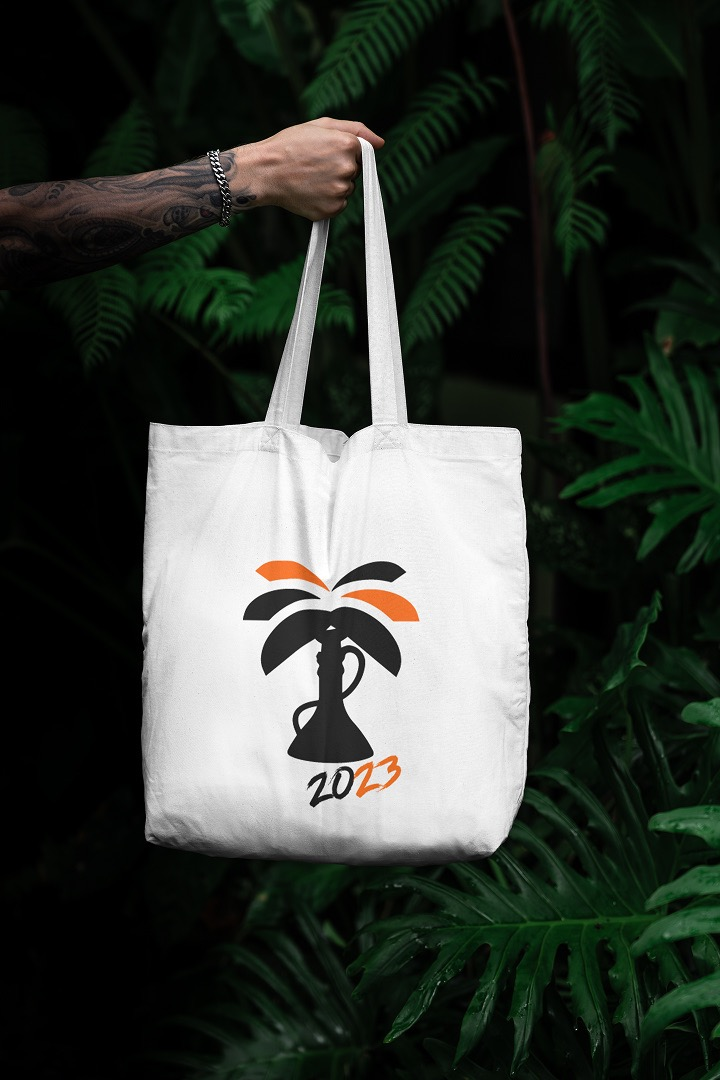
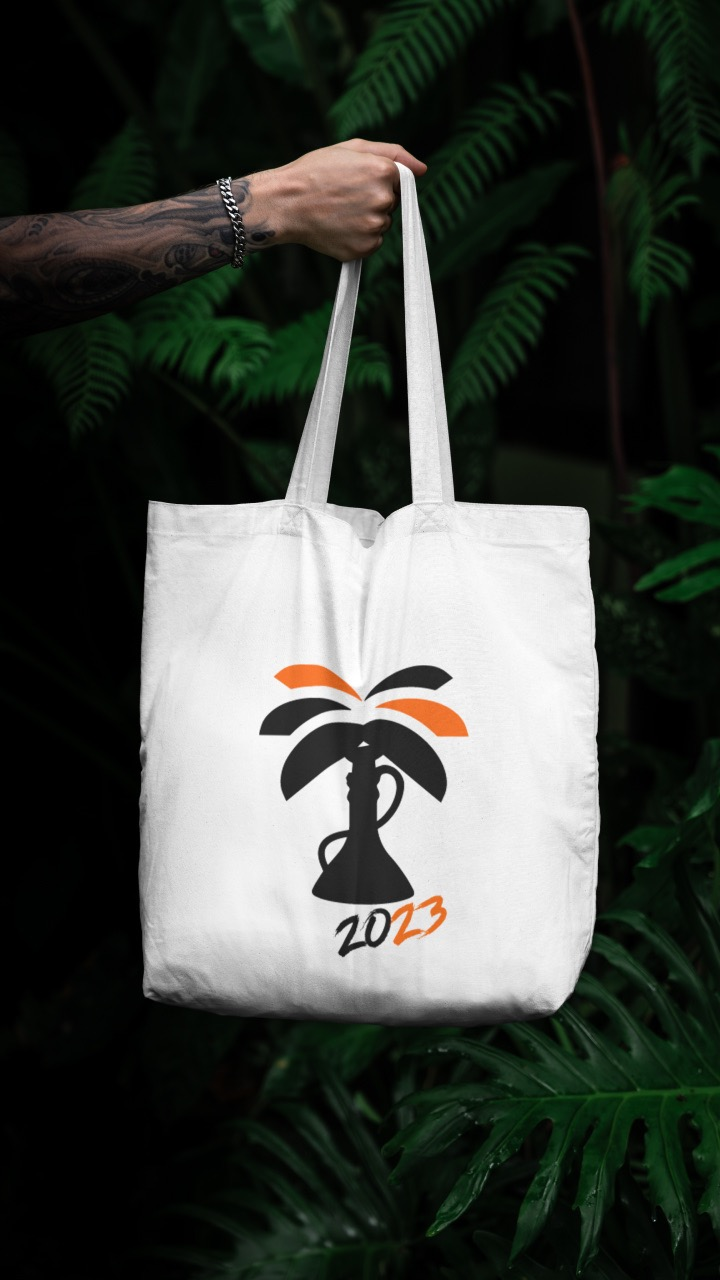
add project's photos

diff --git a/projects/hookahpicnic.html b/projects/hookahpicnic.html
@@ -117,40 +117,40 @@
       <h2>Как это выглядит</h2>
 
       <div class="gallery-grid">
-        <div class="gallery-item gallery-featured">
-          <img src="../assets/images/projects/hookahpicnic/hookahpicnic1.jpg" alt="Логотип мероприятия" loading="lazy"
+        <div class="gallery-item gallery-wide">
+          <img src="../assets/images/projects/hookahpicnic/hookahpicnic1.jpeg" alt="Логотип мероприятия" loading="lazy"
             decoding="async">
         </div>
-        <div class="gallery-item">
-          <img src="../assets/images/projects/hookahpicnic/hookahpicnic2.jpg" alt="Hookah Picnic — шоппер"
+        <div class="gallery-item gallery-vertical">
+          <img src="../assets/images/projects/hookahpicnic/hookahpicnic2.jpeg" alt="Hookah Picnic — шоппер"
             loading="lazy" decoding="async">
         </div>
-        <div class="gallery-item">
-          <img src="../assets/images/projects/hookahpicnic/hookahpicnic3.jpg" alt="Hookah Picnic — символ"
-            loading="lazy" decoding="async">
-        </div>
-        <div class="gallery-item gallery-wide">
-          <img src="../assets/images/projects/hookahpicnic/hookahpicnic4.jpg" alt="Девушка в футболке Hookah Picnic"
+        <div class="gallery-item gallery-vertical">
+          <img src="../assets/images/projects/hookahpicnic/hookahpicnic3.jpeg" alt="Hookah Picnic — символ"
             loading="lazy" decoding="async">
         </div>
         <div class="gallery-item gallery-wide">
-          <img src="../assets/images/projects/hookahpicnic/hookahpicnic5.jpg" alt="Буклет Hookah Picnic у бассейна"
+          <img src="../assets/images/projects/hookahpicnic/hookahpicnic4.jpeg" alt="Девушка в футболке Hookah Picnic"
             loading="lazy" decoding="async">
         </div>
         <div class="gallery-item gallery-wide">
-          <img src="../assets/images/projects/hookahpicnic/hookahpicnic6.jpg"
+          <img src="../assets/images/projects/hookahpicnic/hookahpicnic5.jpeg" alt="Буклет Hookah Picnic у бассейна"
+            loading="lazy" decoding="async">
+        </div>
+        <div class="gallery-item gallery-wide">
+          <img src="../assets/images/projects/hookahpicnic/hookahpicnic6.jpeg"
             alt="Брендированная арка мероприятия Hookah Picnic" loading="lazy" decoding="async">
         </div>
         <div class="gallery-item gallery-wide">
-          <img src="../assets/images/projects/hookahpicnic/hookahpicnic7.jpg" alt="Hookah Picnic — мокап футболки"
+          <img src="../assets/images/projects/hookahpicnic/hookahpicnic7.jpeg" alt="Hookah Picnic — мокап футболки"
             loading="lazy" decoding="async">
         </div>
         <div class="gallery-item gallery-wide">
-          <img src="../assets/images/projects/hookahpicnic/hookahpicnic8.jpg" alt="Футболка и шоппер Hookah Picnic"
+          <img src="../assets/images/projects/hookahpicnic/hookahpicnic8.jpeg" alt="Футболка и шоппер Hookah Picnic"
             loading="lazy" decoding="async">
         </div>
         <div class="gallery-item gallery-wide">
-          <img src="../assets/images/projects/hookahpicnic/hookahpicnic9.jpg" alt="Человек с шоппером Hookah Picnic"
+          <img src="../assets/images/projects/hookahpicnic/hookahpicnic9.jpeg" alt="Человек с шоппером Hookah Picnic"
             loading="lazy" decoding="async">
         </div>
       </div>

diff --git a/projects/eazyenergy.html b/projects/eazyenergy.html
@@ -114,29 +114,33 @@
       <h2>Как это выглядит</h2>
 
       <div class="gallery-grid">
-        <div class="gallery-item gallery-featured">
-          <img src="../assets/images/carousel/7. eazyenergy1.jpg" alt="Eazy Energy — упаковка" loading="lazy"
-            decoding="async">
-        </div>
-        <div class="gallery-item">
-          <img src="../assets/images/projects/eazyenergy/can.jpg" alt="Eazy Energy — банка" loading="lazy"
-            decoding="async">
-        </div>
-        <div class="gallery-item">
-          <img src="../assets/images/projects/eazyenergy/sketch.jpg" alt="Eazy Energy — эскизы" loading="lazy"
+        <div class="gallery-item gallery-wide">
+          <img src="../assets/images/projects/eazyenergy/eazyenergy1.jpeg" alt="Eazy Energy — упаковка" loading="lazy"
             decoding="async">
         </div>
         <div class="gallery-item gallery-wide">
-          <img src="../assets/images/projects/eazyenergy/shelf.jpg" alt="Eazy Energy — на полке" loading="lazy"
-            decoding="async">
+          <img src="../assets/images/projects/eazyenergy/eazyenergy2.jpeg" alt="Eazy Energy — банка энергетика"
+            loading="lazy" decoding="async">
         </div>
-        <div class="gallery-item">
-          <img src="../assets/images/projects/eazyenergy/flavors.jpg" alt="Eazy Energy — вкусы" loading="lazy"
-            decoding="async">
+        <div class="gallery-item gallery-wide">
+          <img src="../assets/images/projects/eazyenergy/eazyenergy4.jpeg" alt="Eazy Energy — дизайн банки"
+            loading="lazy" decoding="async">
         </div>
-        <div class="gallery-item">
-          <img src="../assets/images/projects/eazyenergy/mockup.jpg" alt="Eazy Energy — мокап" loading="lazy"
-            decoding="async">
+        <div class="gallery-item gallery-wide">
+          <img src="../assets/images/projects/eazyenergy/eazyenergy5.jpeg" alt="Eazy Energy — мерч и брендинг"
+            loading="lazy" decoding="async">
+        </div>
+        <div class="gallery-item gallery-wide">
+          <img src="../assets/images/projects/eazyenergy/eazyenergy6.jpeg" alt="Eazy Energy — event оформление"
+            loading="lazy" decoding="async">
+        </div>
+        <div class="gallery-item gallery-wide">
+          <img src="../assets/images/projects/eazyenergy/eazyenergy7.jpeg" alt="Eazy Energy — гоночная команда"
+            loading="lazy" decoding="async">
+        </div>
+        <div class="gallery-item gallery-wide">
+          <img src="../assets/images/projects/eazyenergy/eazyenergy8.jpeg" alt="Eazy Energy — тур по России"
+            loading="lazy" decoding="async">
         </div>
       </div>
     </section>

diff --git a/projects/wef2025.html b/projects/wef2025.html
@@ -120,11 +120,42 @@
       <h2>Как это выглядит</h2>
 
       <div class="gallery-grid">
-        <div class="gallery-item gallery-featured">
-          <img src="../assets/images/carousel/wef2025_1.jpg" alt="EmTech Invest × Davos — event-дизайн" loading="lazy"
+        <div class="gallery-item gallery-wide">
+          <img src="../assets/images/projects/emtechinvest/imtechinvest1.jpeg" alt="EmTech Invest × Davos — event-дизайн" loading="lazy"
             decoding="async">
         </div>
-        <!-- TODO: добавить реальные изображения проекта EmTech Invest × Davos -->
+        <div class="gallery-item gallery-wide">
+          <img src="../assets/images/projects/emtechinvest/imtechinvest2.jpeg" alt="EmTech Invest — бейджи и нейминг" loading="lazy"
+            decoding="async">
+        </div>
+        <div class="gallery-item gallery-wide">
+          <img src="../assets/images/projects/emtechinvest/imtechinvest3.jpeg" alt="EmTech Invest — публикации в соцсетях" loading="lazy"
+            decoding="async">
+        </div>
+        <div class="gallery-item gallery-wide">
+          <img src="../assets/images/projects/emtechinvest/imtechinvest4.jpeg" alt="EmTech Invest — фирменный стиль" loading="lazy"
+            decoding="async">
+        </div>
+        <div class="gallery-item gallery-wide">
+          <img src="../assets/images/projects/emtechinvest/imtechinvest5.jpeg" alt="EmTech Invest — оформление мероприятия" loading="lazy"
+            decoding="async">
+        </div>
+        <div class="gallery-item gallery-wide">
+          <img src="../assets/images/projects/emtechinvest/imtechinvest6.jpeg" alt="EmTech Invest — носители бренда" loading="lazy"
+            decoding="async">
+        </div>
+        <div class="gallery-item gallery-wide">
+          <img src="../assets/images/projects/emtechinvest/imtechinvest7.jpeg" alt="EmTech Invest — презентация" loading="lazy"
+            decoding="async">
+        </div>
+        <div class="gallery-item gallery-wide">
+          <img src="../assets/images/projects/emtechinvest/imtechinvest8.jpeg" alt="EmTech Invest — keynote сценография" loading="lazy"
+            decoding="async">
+        </div>
+        <div class="gallery-item gallery-wide">
+          <img src="../assets/images/projects/emtechinvest/imtechinvest9.jpeg" alt="EmTech Invest — результат" loading="lazy"
+            decoding="async">
+        </div>
       </div>
     </section>
 

diff --git a/projects/loyobondar.html b/projects/loyobondar.html
@@ -113,11 +113,26 @@
       <h2>Как это выглядит</h2>
 
       <div class="gallery-grid">
-        <div class="gallery-item gallery-featured">
-          <img src="../assets/images/carousel/loyobondar1.jpg" alt="LOYO & BONDAR — визуальное сопровождение девелопера"
+        <div class="gallery-item gallery-wide">
+          <img src="../assets/images/projects/loyobondar/loyobondar1.jpeg" alt="LOYO & BONDAR — презентация для инвесторов"
             loading="lazy" decoding="async">
         </div>
-        <!-- TODO: добавить реальные изображения проекта LOYO & BONDAR -->
+        <div class="gallery-item gallery-wide">
+          <img src="../assets/images/projects/loyobondar/loyobondar2.jpeg" alt="LOYO & BONDAR — дизайн рекламы"
+            loading="lazy" decoding="async">
+        </div>
+        <div class="gallery-item gallery-wide">
+          <img src="../assets/images/projects/loyobondar/loyobondar3.jpeg" alt="LOYO & BONDAR — оформление соцсетей"
+            loading="lazy" decoding="async">
+        </div>
+        <div class="gallery-item gallery-wide">
+          <img src="../assets/images/projects/loyobondar/loyobondar4.jpeg" alt="LOYO & BONDAR — маркетинговые материалы"
+            loading="lazy" decoding="async">
+        </div>
+        <div class="gallery-item gallery-wide">
+          <img src="../assets/images/projects/loyobondar/loyobondar5.jpeg" alt="LOYO & BONDAR — фирменный стиль"
+            loading="lazy" decoding="async">
+        </div>
       </div>
     </section>
 

diff --git a/projects/scoville.html b/projects/scoville.html
@@ -115,11 +115,26 @@
       <h2>Как это выглядит</h2>
 
       <div class="gallery-grid">
-        <div class="gallery-item gallery-featured">
-          <img src="../assets/images/carousel/scoville1.jpg" alt="Scoville — дизайн упаковки мороженого" loading="lazy"
+        <div class="gallery-item gallery-wide">
+          <img src="../assets/images/projects/scoville/scoville1.jpeg" alt="Scoville — дизайн упаковки мороженого" loading="lazy"
             decoding="async">
         </div>
-        <!-- TODO: добавить реальные изображения проекта Scoville -->
+        <div class="gallery-item gallery-wide">
+          <img src="../assets/images/projects/scoville/scoville2.jpeg" alt="Scoville — концепция упаковки" loading="lazy"
+            decoding="async">
+        </div>
+        <div class="gallery-item gallery-wide">
+          <img src="../assets/images/projects/scoville/scoville3.jpeg" alt="Scoville — дизайн этикетки" loading="lazy"
+            decoding="async">
+        </div>
+        <div class="gallery-item gallery-wide">
+          <img src="../assets/images/projects/scoville/scoville4.jpeg" alt="Scoville — вкусы на полке" loading="lazy"
+            decoding="async">
+        </div>
+        <div class="gallery-item gallery-wide">
+          <img src="../assets/images/projects/scoville/scoville5.jpeg" alt="Scoville — мокап продукта" loading="lazy"
+            decoding="async">
+        </div>
       </div>
     </section>
 

diff --git a/projects/viril.html b/projects/viril.html
@@ -117,11 +117,26 @@
       <h2>Как это выглядит</h2>
 
       <div class="gallery-grid">
-        <div class="gallery-item gallery-featured">
-          <img src="../assets/images/projects/viril/virilcover.jpg" alt="Viril — фирменный стиль и UX/UI дизайн"
+        <div class="gallery-item gallery-wide">
+          <img src="../assets/images/projects/viril/viril1.jpeg" alt="Viril — фирменный стиль и UX/UI дизайн"
             loading="lazy" decoding="async">
         </div>
-        <!-- TODO: добавить реальные изображения проекта Viril -->
+        <div class="gallery-item gallery-wide">
+          <img src="../assets/images/projects/viril/viril2.jpeg" alt="Viril — страница продукта"
+            loading="lazy" decoding="async">
+        </div>
+        <div class="gallery-item gallery-wide">
+          <img src="../assets/images/projects/viril/viril3.jpeg" alt="Viril — мобильная версия"
+            loading="lazy" decoding="async">
+        </div>
+        <div class="gallery-item gallery-wide">
+          <img src="../assets/images/projects/viril/viril4.jpeg" alt="Viril — дизайн интерфейса"
+            loading="lazy" decoding="async">
+        </div>
+        <div class="gallery-item gallery-wide">
+          <img src="../assets/images/projects/viril/viril5.jpeg" alt="Viril — брендинг"
+            loading="lazy" decoding="async">
+        </div>
       </div>
     </section>
 

diff --git a/projects/ceskylev.html b/projects/ceskylev.html
@@ -113,11 +113,22 @@
       <h2>Как это выглядит</h2>
 
       <div class="gallery-grid">
-        <div class="gallery-item gallery-featured">
-          <img src="../assets/images/carousel/8. ceskylev1.jpg" alt="Cesky Lev — дизайн-поддержка пивоварни"
+        <div class="gallery-item gallery-wide">
+          <img src="../assets/images/projects/ceskylev/ceskylev1.jpeg" alt="Cesky Lev — дизайн этикетки"
             loading="lazy" decoding="async">
         </div>
-        <!-- TODO: добавить реальные изображения проекта Cesky Lev -->
+        <div class="gallery-item gallery-wide">
+          <img src="../assets/images/projects/ceskylev/ceskylev2.jpeg" alt="Cesky Lev — пивная упаковка"
+            loading="lazy" decoding="async">
+        </div>
+        <div class="gallery-item gallery-wide">
+          <img src="../assets/images/projects/ceskylev/ceskylev3.jpeg" alt="Cesky Lev — социальные сети"
+            loading="lazy" decoding="async">
+        </div>
+        <div class="gallery-item gallery-wide">
+          <img src="../assets/images/projects/ceskylev/ceskylev4.jpeg" alt="Cesky Lev — POS-материалы"
+            loading="lazy" decoding="async">
+        </div>
       </div>
     </section>
 

diff --git a/styles.css b/styles.css
@@ -1589,8 +1589,13 @@ section {
   aspect-ratio: 16/9;
 }
 
-.gallery-item:not(.gallery-featured):not(.gallery-wide) {
-  aspect-ratio: 3/4;
+.gallery-vertical {
+  grid-column: span 1;
+  aspect-ratio: 9/16;
+}
+
+.gallery-item:not(.gallery-featured):not(.gallery-wide):not(.gallery-vertical) {
+  aspect-ratio: 16/9;
 }
 
 /* Project Results */
@@ -2024,6 +2029,11 @@ section {
   .gallery-wide {
     grid-column: span 1;
     aspect-ratio: 16/9;
+  }
+
+  .gallery-vertical {
+    grid-column: span 1;
+    aspect-ratio: 9/16;
   }
 
   .next-project-name {
